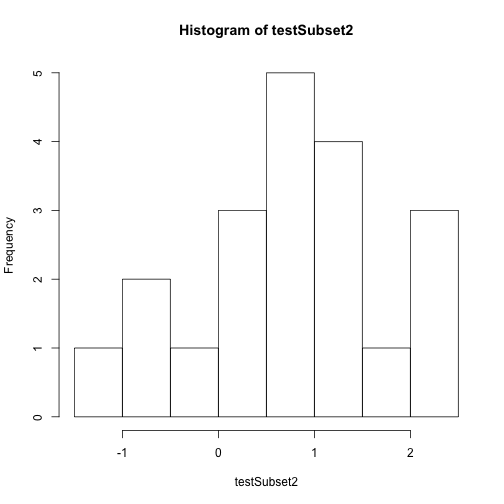
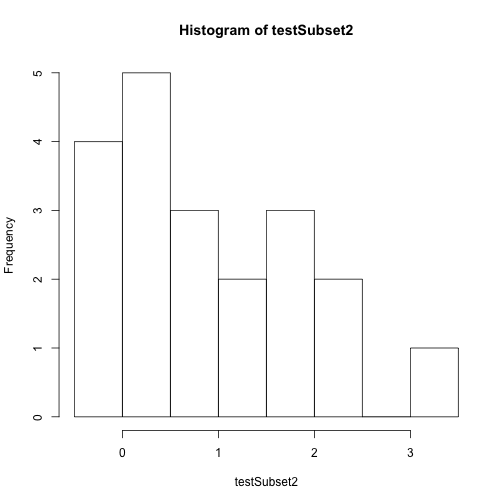
Minor fixes to Intro-HDF5-R tutorial

diff --git a/tutorials/R/R-skills/Using-hdf5-r/Intro-HDF5-R/Intro-HDF5-R.html b/tutorials/R/R-skills/Using-hdf5-r/Intro-HDF5-R/Intro-HDF5-R.html
@@ -253,10 +253,6 @@ h5createFile(&quot;vegData.h5&quot;)
 
 ## [1] FALSE
 
-h5createFile()
-
-## Error in h5createFile(): argument &quot;file&quot; is missing, with no default
-
 # create a group called aNEONSite within the H5 file
 h5createGroup(&quot;vegData.h5&quot;, &quot;aNEONSite&quot;)
 
@@ -302,27 +298,27 @@ h5dump(&quot;vegData.h5&quot;)
 
 ## $aNEONSite
 ## $aNEONSite$temperature
-##             [,1]        [,2]
-##  [1,]  2.1187690  2.19412808
-##  [2,]  0.6580906  1.31054949
-##  [3,]  0.9465687  0.66743711
-##  [4,]  0.5036369 -0.06909833
-##  [5,]  1.3271434 -0.03352393
-##  [6,]  0.2684871  1.23180698
-##  [7,]  1.3650261  0.71698974
-##  [8,]  0.4007489  1.45656748
-##  [9,]  1.0174634  0.34601989
-## [10,]  1.1287812 -0.29922036
-## [11,]  2.0433251  1.10886218
-## [12,] -0.1967851 -0.13415125
-## [13,] -0.9882509  0.28138520
-## [14,]  1.8106034  1.71283575
-## [15,]  0.6784905  2.17336248
-## [16,]  2.0087910  1.63902252
-## [17,] -0.7602868  1.72508625
-## [18,] -1.3273720 -1.34191667
-## [19,]  0.2582371 -0.97200364
-## [20,]  0.7406490  0.74367379
+##                      [,1]               [,2]
+##  [1,]  0.8516866634224054  2.836360277910956
+##  [2,]  1.0712367752260255  1.500407921473993
+##  [3,]  0.3864554517773209  1.648012234083583
+##  [4,] -0.1305657183599631 -0.294542945275954
+##  [5,]  1.1089364337402188 -2.384281100803952
+##  [6,]  1.5022904863665651  0.510932859782056
+##  [7,]  0.1805362186718872  0.704540760801228
+##  [8,]  3.1547079852453983  1.159945530320169
+##  [9,] -0.1335530312943478  0.640871548408018
+## [10,]  0.8273741184865043  1.621706350309156
+## [11,]  2.3813435216340038  1.643019784381709
+## [12,]  2.2747612084834912  0.212686978709758
+## [13,]  0.0748886601528383  0.376472326711012
+## [14,] -0.4422175796197136 -0.055197564530804
+## [15,]  0.4033320710861770  1.287695402027157
+## [16,]  0.4693081359628845  2.410268667282963
+## [17,]  1.6760724722226619  0.815221535235379
+## [18,] -0.2188460893731798  2.732246123492854
+## [19,]  1.8237998342574666  0.709802145998186
+## [20,]  0.5004911517283539  0.193789028958291
 
 # Close the file. This is good practice.
 H5close()

diff --git a/tutorials/R/R-skills/Using-hdf5-r/Intro-HDF5-R/Intro-HDF5-R.md b/tutorials/R/R-skills/Using-hdf5-r/Intro-HDF5-R/Intro-HDF5-R.md
@@ -4,7 +4,7 @@ title: "Introduction to HDF5 Files in R"
 description: "Learn how to build a HDF5 file in R from scratch! Add groups, datasets and attributes. Read data out from the file."
 dateCreated: 2015-05-20 15:22:52
 authors: Leah A. Wasser
-contributors:
+contributors: Donal O'Leary
 estimatedTime: 1.0 - 1.5 Hours
 packagesLibraries: rhdf5
 topics: HDF5
@@ -108,10 +108,6 @@ Now, let's create a basic H5 file with one group and one dataset in it.
 
     ## [1] FALSE
 
-    h5createFile()
-
-    ## Error in h5createFile(): argument "file" is missing, with no default
-
     # create a group called aNEONSite within the H5 file
     h5createGroup("vegData.h5", "aNEONSite")
 
@@ -157,27 +153,27 @@ are working with larger datasets!
 
     ## $aNEONSite
     ## $aNEONSite$temperature
-    ##             [,1]        [,2]
-    ##  [1,]  2.1187690  2.19412808
-    ##  [2,]  0.6580906  1.31054949
-    ##  [3,]  0.9465687  0.66743711
-    ##  [4,]  0.5036369 -0.06909833
-    ##  [5,]  1.3271434 -0.03352393
-    ##  [6,]  0.2684871  1.23180698
-    ##  [7,]  1.3650261  0.71698974
-    ##  [8,]  0.4007489  1.45656748
-    ##  [9,]  1.0174634  0.34601989
-    ## [10,]  1.1287812 -0.29922036
-    ## [11,]  2.0433251  1.10886218
-    ## [12,] -0.1967851 -0.13415125
-    ## [13,] -0.9882509  0.28138520
-    ## [14,]  1.8106034  1.71283575
-    ## [15,]  0.6784905  2.17336248
-    ## [16,]  2.0087910  1.63902252
-    ## [17,] -0.7602868  1.72508625
-    ## [18,] -1.3273720 -1.34191667
-    ## [19,]  0.2582371 -0.97200364
-    ## [20,]  0.7406490  0.74367379
+    ##                      [,1]               [,2]
+    ##  [1,]  0.8516866634224054  2.836360277910956
+    ##  [2,]  1.0712367752260255  1.500407921473993
+    ##  [3,]  0.3864554517773209  1.648012234083583
+    ##  [4,] -0.1305657183599631 -0.294542945275954
+    ##  [5,]  1.1089364337402188 -2.384281100803952
+    ##  [6,]  1.5022904863665651  0.510932859782056
+    ##  [7,]  0.1805362186718872  0.704540760801228
+    ##  [8,]  3.1547079852453983  1.159945530320169
+    ##  [9,] -0.1335530312943478  0.640871548408018
+    ## [10,]  0.8273741184865043  1.621706350309156
+    ## [11,]  2.3813435216340038  1.643019784381709
+    ## [12,]  2.2747612084834912  0.212686978709758
+    ## [13,]  0.0748886601528383  0.376472326711012
+    ## [14,] -0.4422175796197136 -0.055197564530804
+    ## [15,]  0.4033320710861770  1.287695402027157
+    ## [16,]  0.4693081359628845  2.410268667282963
+    ## [17,]  1.6760724722226619  0.815221535235379
+    ## [18,] -0.2188460893731798  2.732246123492854
+    ## [19,]  1.8237998342574666  0.709802145998186
+    ## [20,]  0.5004911517283539  0.193789028958291
 
     # Close the file. This is good practice.
     H5close()
